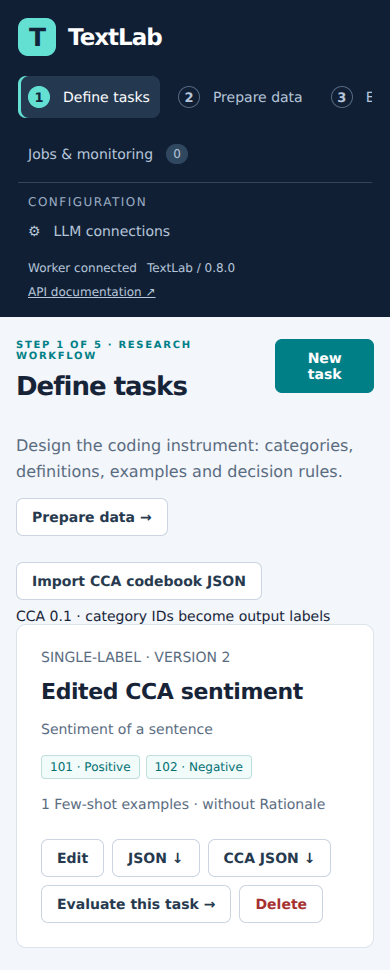
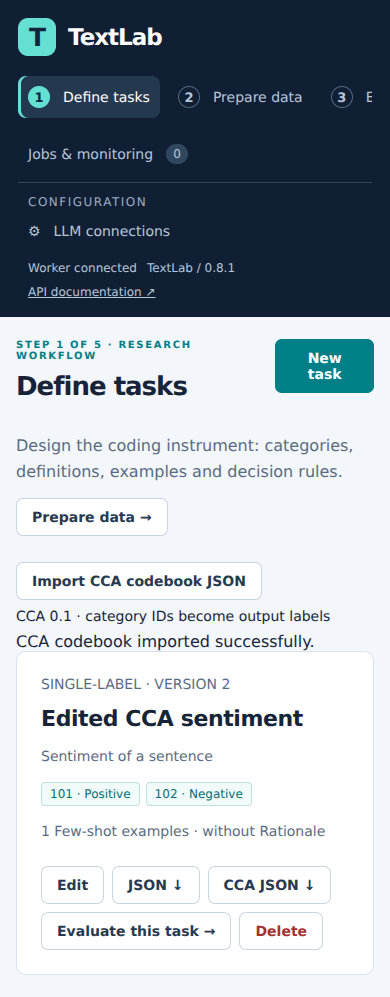
error fix; logging

diff --git a/textlab/static/cca.js b/textlab/static/cca.js
@@ -1,6 +1,12 @@
 'use strict';
+// Keep the picker connected while background refresh replaces #view.
+const ccaFile=document.createElement('input');
+ccaFile.id='cca-file';ccaFile.type='file';ccaFile.accept='.json,application/json';
+ccaFile.style.display='none';document.body.appendChild(ccaFile);
+let ccaImportBusy=false,ccaImportMessage='';
+function ccaStatus(message){ccaImportMessage=message;const el=$('#cca-import-status');if(el)el.textContent=message;}
 const baseRenderTasks=renderTasks;
-renderTasks=function(){baseRenderTasks();$('#view').insertAdjacentHTML('afterbegin','<div class="actions spaced"><button data-action="cca-import">Import CCA codebook JSON</button><input id="cca-file" style="display:none" type="file" accept=".json,application/json" hidden><span class="small">CCA 0.1 · category IDs become output labels</span></div>');document.querySelectorAll('[data-action="download-task"]').forEach(b=>b.insertAdjacentHTML('afterend',`<button data-action="cca-export" data-id="${b.dataset.id}">CCA JSON ↓</button>`));};
+renderTasks=function(){baseRenderTasks();$('#view').insertAdjacentHTML('afterbegin','<div class="actions spaced"><button data-action="cca-import">Import CCA codebook JSON</button><span class="small">CCA 0.1 · category IDs become output labels</span><span id="cca-import-status" role="status"></span></div>');ccaStatus(ccaImportMessage);$('[data-action=cca-import]').disabled=ccaImportBusy;document.querySelectorAll('[data-action="download-task"]').forEach(b=>b.insertAdjacentHTML('afterend',`<button data-action="cca-export" data-id="${b.dataset.id}">CCA JSON ↓</button>`));};
 const baseCategoryHTML=categoryHTML;
 categoryHTML=function(c={label:'',definition:'',examples:[]}){
  const extra={display_label:c.display_label||'',inclusion_criteria:c.inclusion_criteria||[],exclusion_criteria:c.exclusion_criteria||[],coding_notes:c.coding_notes||'',aliases:c.aliases||[]};
@@ -23,18 +29,33 @@ readTask=function(){
 document.addEventListener('click',async e=>{
  const b=e.target.closest('[data-action]');if(!b)return;
  try{
-  if(b.dataset.action==='cca-import')$('#cca-file').click();
+  if(b.dataset.action==='cca-import'&&!ccaImportBusy){console.debug('[TextLab] CCA picker opened');ccaFile.click();}
   if(b.dataset.action==='cca-export'){
    const response=await fetch('/api/tasks/'+b.dataset.id+'/export-cca');if(!response.ok)throw Error((await response.json()).detail);
    const url=URL.createObjectURL(await response.blob()),a=document.createElement('a');a.href=url;a.download='codebook-'+b.dataset.id+'.cca.json';a.click();setTimeout(()=>URL.revokeObjectURL(url),1000);
   }
  }catch(error){toast(error.message);}
 });
-document.addEventListener('change',async e=>{
- if(e.target.id!=='cca-file')return;const file=e.target.files[0];if(!file)return;
+ccaFile.addEventListener('change',async ()=>{
+ const file=ccaFile.files[0];if(!file||ccaImportBusy)return;
+ ccaImportBusy=true;const button=$('[data-action=cca-import]');if(button)button.disabled=true;
+ ccaStatus('Importing CCA codebook…');
+ console.debug('[TextLab] CCA import started',{bytes:file.size});
+ let importedId=null;
  try{
   if(file.size>5*1024*1024)throw Error('Maximum codebook size is 5 MiB.');
-  const response=await fetch('/api/tasks/import-cca',{method:'POST',headers:{'Content-Type':'application/json'},body:file}),body=await response.json();if(!response.ok)throw Error(body.detail);
-  state.tasks=await api('/tasks');render();taskEditor(body.id);toast('CCA codebook imported as a new task. Review settings before running.');
- }catch(error){toast(error.message);}finally{e.target.value='';}
+  const response=await fetch('/api/tasks/import-cca',{method:'POST',headers:{'Content-Type':'application/json'},body:file});
+  const requestId=response.headers.get('X-Request-ID');
+  console.debug('[TextLab] CCA import response',{status:response.status,requestId});
+  let body;try{body=await response.json();}catch{throw Error('Server returned an unreadable response (HTTP '+response.status+'). Check server logs.');}
+  if(!response.ok)throw Error((typeof body.detail==='string'?body.detail:JSON.stringify(body.detail)||'Import failed')+(requestId?' [Request '+requestId+']':''));
+  importedId=body.id;
+  state.tasks=await api('/tasks');
+  ccaStatus('CCA codebook imported successfully.');render();taskEditor(body.id);
+  toast('CCA codebook imported as a new task. Review settings before running.');
+ }catch(error){
+  const message=importedId?'Task imported ('+importedId+'), but the view could not refresh. Reload the page.':error.message;
+  ccaStatus(message);toast(message);
+  console.warn('[TextLab] CCA import failed',{stage:importedId?'refresh':'upload',errorType:error.name});
+ }finally{ccaImportBusy=false;ccaFile.value='';const button=$('[data-action=cca-import]');if(button)button.disabled=false;}
 });

diff --git a/textlab/static/index.html b/textlab/static/index.html
@@ -10,4 +10,4 @@
 <a href="#results"><b class="step-number">5</b><span>Analyze &amp; export</span></a></nav>
 <div class="sidebar-utilities"><nav aria-label="Monitoring"><a href="#jobs"><span>Jobs &amp; monitoring</span><small id="job-count" aria-label="Active and queued jobs">0</small></a></nav>
 <div class="config-section"><div class="aside-label">CONFIGURATION</div><nav aria-label="Configuration"><a href="#profiles">⚙ <span>LLM connections</span></a></nav></div>
-<div class="aside-bottom"><span id="health">Checking connection …</span><small>TextLab / 0.8.0</small><a href="/docs" target="_blank" rel="noopener">API documentation ↗</a></div></div></aside><main><header><div><div class="eyebrow">COMPUTATIONAL CONTENT ANALYSIS</div><h1 id="title">Define tasks</h1></div><button id="primary" class="primary">New job</button></header><div id="workflow-context"></div><div id="view" aria-live="polite"></div></main><dialog id="editor"><form id="editor-form"><div class="dialog-head"><h2 id="dialog-title"></h2><button type="button" data-action="close" aria-label="Close">✕</button></div><div id="editor-body"></div><div class="dialog-foot"><span id="form-error" role="alert"></span><button type="button" data-action="close">Cancel</button><button class="primary" type="submit">Save</button></div></form></dialog><dialog id="detail"><div class="dialog-head"><h2 id="detail-title">Job</h2><button data-action="close-detail" aria-label="Close">✕</button></div><div id="detail-body"></div></dialog><div id="toast" role="status"></div></body></html>
+<div class="aside-bottom"><span id="health">Checking connection …</span><small>TextLab / 0.8.1</small><a href="/docs" target="_blank" rel="noopener">API documentation ↗</a></div></div></aside><main><header><div><div class="eyebrow">COMPUTATIONAL CONTENT ANALYSIS</div><h1 id="title">Define tasks</h1></div><button id="primary" class="primary">New job</button></header><div id="workflow-context"></div><div id="view" aria-live="polite"></div></main><dialog id="editor"><form id="editor-form"><div class="dialog-head"><h2 id="dialog-title"></h2><button type="button" data-action="close" aria-label="Close">✕</button></div><div id="editor-body"></div><div class="dialog-foot"><span id="form-error" role="alert"></span><button type="button" data-action="close">Cancel</button><button class="primary" type="submit">Save</button></div></form></dialog><dialog id="detail"><div class="dialog-head"><h2 id="detail-title">Job</h2><button data-action="close-detail" aria-label="Close">✕</button></div><div id="detail-body"></div></dialog><div id="toast" role="status"></div></body></html>

diff --git a/textlab/worker.py b/textlab/worker.py
@@ -20,6 +20,7 @@ stopping = threading.Event()
 
 def import_dataset(dataset):
     did = dataset["id"]
+    log.info("dataset_import_started dataset_id=%s", did)
     with connect() as db:
         db.execute("UPDATE datasets SET status='importing',total=0,error=NULL WHERE id=?", (did,))
         db.execute("DELETE FROM records WHERE dataset_id=?", (did,))
@@ -47,18 +48,24 @@ def import_dataset(dataset):
             save_import(did, batch, total)
             with connect() as db:
                 db.execute("UPDATE datasets SET status='ready',total=? WHERE id=?", (total, did))
+        log.info("dataset_import_completed dataset_id=%s rows=%s", did, total)
     except Exception as exc:
+        log.warning("dataset_import_failed dataset_id=%s error_type=%s", did, type(exc).__name__)
         with connect() as db:
             db.execute("UPDATE datasets SET status='failed',error=? WHERE id=?", (str(exc)[:1000], did))
 
 
 def save_import(did, batch, total):
+    log.debug("dataset_import_progress dataset_id=%s rows=%s", did, total)
     with connect() as db:
         db.executemany("INSERT INTO records VALUES(?,?,?)", batch)
         db.execute("UPDATE datasets SET total=? WHERE id=?", (total, did))
 
 
 def save_result(job_id, row_no, result):
+    log.log(logging.WARNING if result["status"] != "ok" else logging.DEBUG,
+            "classification_result job_id=%s row=%s status=%s attempts=%s seconds=%s",
+            job_id, row_no, result["status"], result["attempts"], result["seconds"])
     with connect() as db:
         inserted = db.execute("INSERT OR IGNORE INTO results(job_id,row_no,labels,rationale,status,error,raw,attempts,seconds,prompt_tokens,completion_tokens,evidence,thinking,attempt_outputs,error_count,self_reported_confidence,alternative_interpretations,candidate_interpretations) VALUES(?,?,?,?,?,?,?,?,?,?,?,?,?,?,?,?,?,?)", (
             job_id, row_no, dumps(result["labels"]), result["rationale"], result["status"], result["error"], result["raw"],
@@ -69,6 +76,7 @@ def save_result(job_id, row_no, result):
 
 
 def run_batch(job):
+    log.debug("job_batch job_id=%s cursor=%s", job["id"], job["cursor"])
     snap = json.loads(job["snapshot"])
     concurrency = snap["query"]["concurrency"]
     # Cursor is committed only after the whole bounded window has settled.
@@ -79,6 +87,7 @@ def run_batch(job):
         completed = {r[0] for r in db.execute("SELECT row_no FROM results WHERE job_id=? AND row_no>? AND row_no<=?", (
             job["id"], job["cursor"], rows[-1]["row_no"] if rows else job["cursor"]))}
     if not rows:
+        log.info("job_finished job_id=%s done=%s failed=%s", job["id"], job["done"], job["failed"])
         with connect() as db:
             db.execute("UPDATE jobs SET status=CASE WHEN failed>0 THEN 'completed_with_errors' ELSE 'completed' END,updated=?,finished_at=? WHERE id=? AND status='running'", (time.time(), time.time(), job["id"]))
         return
@@ -124,6 +133,8 @@ def tick():
         if job:
             db.execute("UPDATE jobs SET status='running',updated=? WHERE id=? AND status='queued'", (time.time(), job["id"]))
     if job:
+        if job["status"] == "queued":
+            log.info("job_started job_id=%s total=%s", job["id"], job["total"])
         try:
             timed_batch(dict(job), run_batch)
         except Exception:
@@ -141,7 +152,8 @@ def pulse():
 
 
 def main():
-    logging.basicConfig(level=logging.INFO)
+    from .logging_config import configure_logging
+    configure_logging()
     init()
     lock = open(root() / "worker.lock", "a")
     try:

diff --git a/textlab/api.py b/textlab/api.py
@@ -1,3 +1,5 @@
+import logging
+import uuid
 import csv
 import io
 import json
@@ -19,13 +21,39 @@ from .models import Task, Profile, NewJob, Query
 from .jobs import enqueue, snapshot_for
 
 
+log = logging.getLogger(__name__)
+
+
 @asynccontextmanager
 async def lifespan(app):
+    from .logging_config import configure_logging
+    configure_logging()
     init()
+    log.info("api_started")
     yield
+    log.info("api_stopped")
 
 
-app = FastAPI(title="TextLab", version="0.8.0", lifespan=lifespan)
+app = FastAPI(title="TextLab", version="0.8.1", lifespan=lifespan)
+
+
+@app.middleware("http")
+async def request_logging(request: Request, call_next):
+    request_id = uuid.uuid4().hex[:16]
+    request.state.request_id = request_id
+    started = time.monotonic()
+    try:
+        response = await call_next(request)
+    except Exception:
+        log.exception("request_failed request_id=%s method=%s", request_id, request.method)
+        raise
+    route = request.scope.get("route")
+    path = getattr(route, "path", "<static-or-unmatched>")
+    level = logging.WARNING if response.status_code >= 400 else logging.DEBUG
+    log.log(level, "request_completed request_id=%s method=%s route=%s status=%s seconds=%.3f",
+            request_id, request.method, path, response.status_code, time.monotonic()-started)
+    response.headers["X-Request-ID"] = request_id
+    return response
 
 
 def get(db, table, id):
@@ -67,10 +95,13 @@ def create_task(task: Task):
 async def import_cca(request: Request):
     from .cca import from_codebook
     from pydantic import ValidationError
+    log.info("cca_import_started request_id=%s", request.state.request_id)
     content=bytearray()
     async for chunk in request.stream():
         content.extend(chunk)
-        if len(content)>5*1024*1024:raise HTTPException(413,"Maximum codebook size is 5 MiB")
+        if len(content)>5*1024*1024:
+            log.warning("cca_import_rejected request_id=%s reason=size_limit", request.state.request_id)
+            raise HTTPException(413,"Maximum codebook size is 5 MiB")
     try:
         def unique_pairs(pairs):
             result={}
@@ -81,8 +112,11 @@ async def import_cca(request: Request):
         doc=json.loads(content.decode('utf-8-sig'),object_pairs_hook=unique_pairs)
         task=from_codebook(doc)
     except (ValueError,UnicodeError,ValidationError,RecursionError) as exc:
+        log.warning("cca_import_rejected request_id=%s reason=validation error_type=%s bytes=%s", request.state.request_id, type(exc).__name__, len(content))
         raise HTTPException(422,'CCA import: '+str(exc)[:2000]) from exc
-    return create_task(task)
+    result = create_task(task)
+    log.info("cca_import_completed request_id=%s task_id=%s categories=%s bytes=%s", request.state.request_id, result["id"], len(task.categories), len(content))
+    return result
 
 
 @app.get("/api/tasks/{id}/export-cca")

diff --git a/textlab/prediction.py b/textlab/prediction.py
@@ -184,7 +184,7 @@ def build_artifacts(prediction):
                 writer=csv.DictWriter(csvout,fieldnames=list(row));writer.writeheader()
             writer.writerow({k:safe_cell(dumps(v) if isinstance(v,(list,dict)) else v) for k,v in row.items()})
             jsonout.write(dumps(row)+'\n')
-    manifest.update(status='cancelled' if all(r['status']=='cancelled' for r in manifest['runs']) else 'completed_with_errors' if any(r['status']!='completed' for r in manifest['runs']) else 'completed',artifact_status='ready',framework_version='0.8.0',layout='one row per source record and task',created_at=time.time())
+    manifest.update(status='cancelled' if all(r['status']=='cancelled' for r in manifest['runs']) else 'completed_with_errors' if any(r['status']!='completed' for r in manifest['runs']) else 'completed',artifact_status='ready',framework_version='0.8.1',layout='one row per source record and task',created_at=time.time())
     (staging/'manifest.json').write_text(json.dumps(manifest,ensure_ascii=False,indent=2),encoding='utf-8')
     if final.exists():shutil.rmtree(final)
     os.replace(staging,final)
@@ -203,7 +203,10 @@ def finalize_prediction():
         AND NOT EXISTS(SELECT 1 FROM prediction_runs r JOIN jobs j ON j.id=r.job_id WHERE r.prediction_id=p.id AND j.status NOT IN ('completed','completed_with_errors','cancelled')) ORDER BY created LIMIT 1""").fetchone()
         if not p:return False
         db.execute("UPDATE predictions SET artifact_status='building' WHERE id=?",(p['id'],))
-    try:build_artifacts(dict(p))
+    try:
+        logging.getLogger(__name__).info("prediction_export_started prediction_id=%s", p["id"])
+        build_artifacts(dict(p))
+        logging.getLogger(__name__).info("prediction_export_completed prediction_id=%s", p["id"])
     except Exception:
         logging.getLogger(__name__).exception('Prediction export failed')
         with connect() as db:db.execute("UPDATE predictions SET artifact_status='failed',artifact_error='Export failed; check worker log and available disk space.' WHERE id=?",(p['id'],))

diff --git a/textlab/reports.py b/textlab/reports.py
@@ -178,7 +178,7 @@ def html_report(report,scope):
     notes=''.join('<p><strong>'+html.escape(key)+':</strong> '+html.escape(value)+'</p>' for key,value in report['policies'].items())
     return f'''<!doctype html><html lang="en"><head><meta charset="utf-8"><title>{title}</title>
 <style>body{{font:16px/1.6 system-ui;color:#172438;max-width:1400px;margin:40px auto;padding:0 25px}}h1,h2{{line-height:1.3}}h1{{color:#007f87}}.table{{overflow:auto;margin:25px 0}}table{{border-collapse:collapse;font-size:13px}}th,td{{padding:8px 12px;border:1px solid #dce3ec;text-align:left;white-space:nowrap}}th{{background:#edf4f7}}img{{max-width:100%;height:auto}}pre{{white-space:pre-wrap;overflow-wrap:anywhere;background:#eef3f7;padding:20px}}@media print{{body{{margin:0}}.table{{overflow:visible}}table{{font-size:9px}}th,td{{padding:3px}}}}</style></head><body>
-<h1>{title}</h1><p>TextLab 0.8.0 · Evaluation report · {html.escape(scope)} · Gold documents: {report['gold']['total']} · Common assigned documents: {report['common_n']}</p>
+<h1>{title}</h1><p>TextLab 0.8.1 · Evaluation report · {html.escape(scope)} · Gold documents: {report['gold']['total']} · Common assigned documents: {report['common_n']}</p>
 <p>{html.escape(report['policies'][scope])}</p><h2>Model comparison</h2>{html_table(metric_rows(report,scope))}{images}<h2>Results by class</h2>{html_table(metric_rows(report,scope,True))}
 <h2>Confidence metrics (mean and sample SD)</h2>{html_table(confidence_rows(report,scope))}<h2>Scoring conventions</h2>{notes}<h2>Configuration and reproducibility</h2><pre>{html.escape(json.dumps({k:v for k,v in report.items() if k!='scopes'},ensure_ascii=False,indent=2))}</pre>
 {''.join('<h3>'+html.escape(r['variant'])+'</h3><pre>'+html.escape(json.dumps(r['snapshot'],ensure_ascii=False,indent=2))+'</pre>' for r in report['scopes'][scope]['runs'])}

diff --git a/textlab/llm.py b/textlab/llm.py
@@ -1,3 +1,4 @@
+import logging
 import json
 import os
 import re
@@ -202,6 +203,7 @@ def classify(snapshot, text, client):
     prompt = messages(task, query, text)
     schema = output_schema(task)
     for attempt in range(query.retries + 1):
+        logging.getLogger(__name__).debug("llm_attempt task_id=%s attempt=%s max_attempts=%s", snapshot.get("task_id"), attempt+1, query.retries+1)
         result["attempts"] += 1
         output = {"prompt_protocol": PROMPT_PROTOCOL, "attempt": attempt + 1, "started_at": time.time(), "content": None, "thinking": None, "error": None}
         result["attempt_outputs"].append(output)
@@ -259,6 +261,7 @@ def classify(snapshot, text, client):
             result.update(candidate_interpretations=parsed.get("candidate_interpretations", []), self_reported_confidence=parsed.get("self_reported_confidence"), alternative_interpretations=parsed.get("alternative_interpretations", []), labels=parsed["labels"], rationale=parsed.get("rationale"), evidence=parsed.get("evidence", []), status="ok", error=None)
             break
         except (ValueError, KeyError, IndexError, TypeError, httpx.HTTPError) as exc:
+            logging.getLogger(__name__).debug("llm_attempt_failed task_id=%s attempt=%s error_type=%s", snapshot.get("task_id"), attempt+1, type(exc).__name__)
             # Never persist response bodies, credentials or full transport URLs in errors.
             if isinstance(exc, httpx.HTTPStatusError):
                 code = exc.response.status_code

diff --git a/textlab/evaluation.py b/textlab/evaluation.py
@@ -120,7 +120,7 @@ def build_report(evaluation_id):
     task_snapshot = json.loads(evaluation['task_snapshot'])
     task = task_snapshot['task']
     labels = [c['label'] for c in task['categories']]
-    report = {'schema_version':2,'framework_version':'0.8.0','evaluation_id':evaluation_id,'name':evaluation['name'],'generated':time.time(),
+    report = {'schema_version':2,'framework_version':'0.8.1','evaluation_id':evaluation_id,'name':evaluation['name'],'generated':time.time(),
               'task_snapshot':task_snapshot,'gold':{'id':gold_set['id'],'total':len(gold),'spec':json.loads(gold_set['spec']),'label_counts':json.loads(gold_set['label_counts'])},
               'labels':labels,'mode':task['mode'],'policies':POLICIES,'common_n':len(common),'scopes':{'valid':{'runs':[]},'common':{'runs':[]}}}
     for run in runs:
@@ -156,10 +156,12 @@ def finalize_one():
     if not row:
         return False
     try:
+        logging.getLogger(__name__).info("evaluation_report_started evaluation_id=%s", row[0])
         report = build_report(row[0])
         encoded = json.dumps(report,ensure_ascii=False,allow_nan=False)
         with connect() as db:
             db.execute('UPDATE evaluations SET report_json=? WHERE id=?',(encoded,row[0]))
+        logging.getLogger(__name__).info("evaluation_report_completed evaluation_id=%s", row[0])
     except Exception:
         logging.getLogger(__name__).exception('Evaluation report failed: %s',row[0])
         with connect() as db:

diff --git a/tests/test_cca.py b/tests/test_cca.py
@@ -90,3 +90,20 @@ def test_bom_duplicate_keys_invalid_json_and_upload_limit(client):
         assert client.post('/api/tasks/import-cca',content=content).status_code==422
     assert client.post('/api/tasks/import-cca',content=b' '* (5*1024*1024+1)).status_code==413
     assert len(client.get('/api/tasks').json())==before
+
+
+def test_import_diagnostics_correlate_without_payload(client, caplog):
+    import logging
+    caplog.set_level(logging.DEBUG, logger="textlab")
+    doc = codebook()
+    doc["description"] = "PRIVATE_CODEBOOK_CONTENT"
+    response = client.post("/api/tasks/import-cca", json=doc)
+    request_id = response.headers["X-Request-ID"]
+    assert response.status_code == 201
+    assert "cca_import_completed request_id=" + request_id in caplog.text
+    assert response.json()["id"] in caplog.text
+    failed = client.post("/api/tasks/import-cca", json={"secret": "PRIVATE_BAD_CONTENT"})
+    assert failed.status_code == 422
+    assert "cca_import_rejected request_id=" + failed.headers["X-Request-ID"] in caplog.text
+    assert "PRIVATE_CODEBOOK_CONTENT" not in caplog.text
+    assert "PRIVATE_BAD_CONTENT" not in caplog.text

diff --git a/textlab/logging_config.py b/textlab/logging_config.py
@@ -1,0 +1,16 @@
+"""Application-only logging; never enable transport payload logging."""
+import logging
+import os
+
+
+def configure_logging():
+    logger = logging.getLogger("textlab")
+    level = os.getenv("TEXTLAB_LOG_LEVEL", "INFO").upper()
+    if level not in {"DEBUG", "INFO", "WARNING", "ERROR", "CRITICAL"}:
+        level = "INFO"
+    logger.setLevel(level)
+    if not any(getattr(h, "_textlab", False) for h in logger.handlers):
+        handler = logging.StreamHandler()
+        handler._textlab = True
+        handler.setFormatter(logging.Formatter("%(asctime)s %(levelname)s %(name)s %(message)s"))
+        logger.addHandler(handler)

diff --git a/tests/test_prediction.py b/tests/test_prediction.py
@@ -72,7 +72,7 @@ def test_multitask_durable_formats_and_snapshots(client):
     table=pq.read_table(io.BytesIO(client.get('/api/predictions/'+id+'/download/parquet').content))
     assert table.num_rows==4 and table['source.doc_id'].to_pylist()==['001','002','001','002']
     manifest=client.get('/api/predictions/'+id+'/download/manifest').json()
-    assert len(manifest['runs'])==2 and manifest['framework_version']=='0.8.0'
+    assert len(manifest['runs'])==2 and manifest['framework_version']=='0.8.1'
     assert client.delete('/api/predictions/'+id).status_code==200
     assert not folder.exists() and client.get('/api/jobs').json()==[]
 

diff --git a/textlab/jobs.py b/textlab/jobs.py
@@ -20,7 +20,7 @@ def snapshot_for(task_row, profile_row, query, text_column):
     from .llm import PROMPT_PROTOCOL
     return {"prompt_protocol": PROMPT_PROTOCOL, "task": task.model_dump(), "task_id": task_row["id"], "task_revision": task_row["revision"],
             "profile": json.loads(profile_row["spec"]), "query": query.model_dump(), "text_column": text_column,
-            "framework_version": "0.8.0"}
+            "framework_version": "0.8.1"}
 
 
 def enqueue(db, name, dataset, snapshot, created=None):
